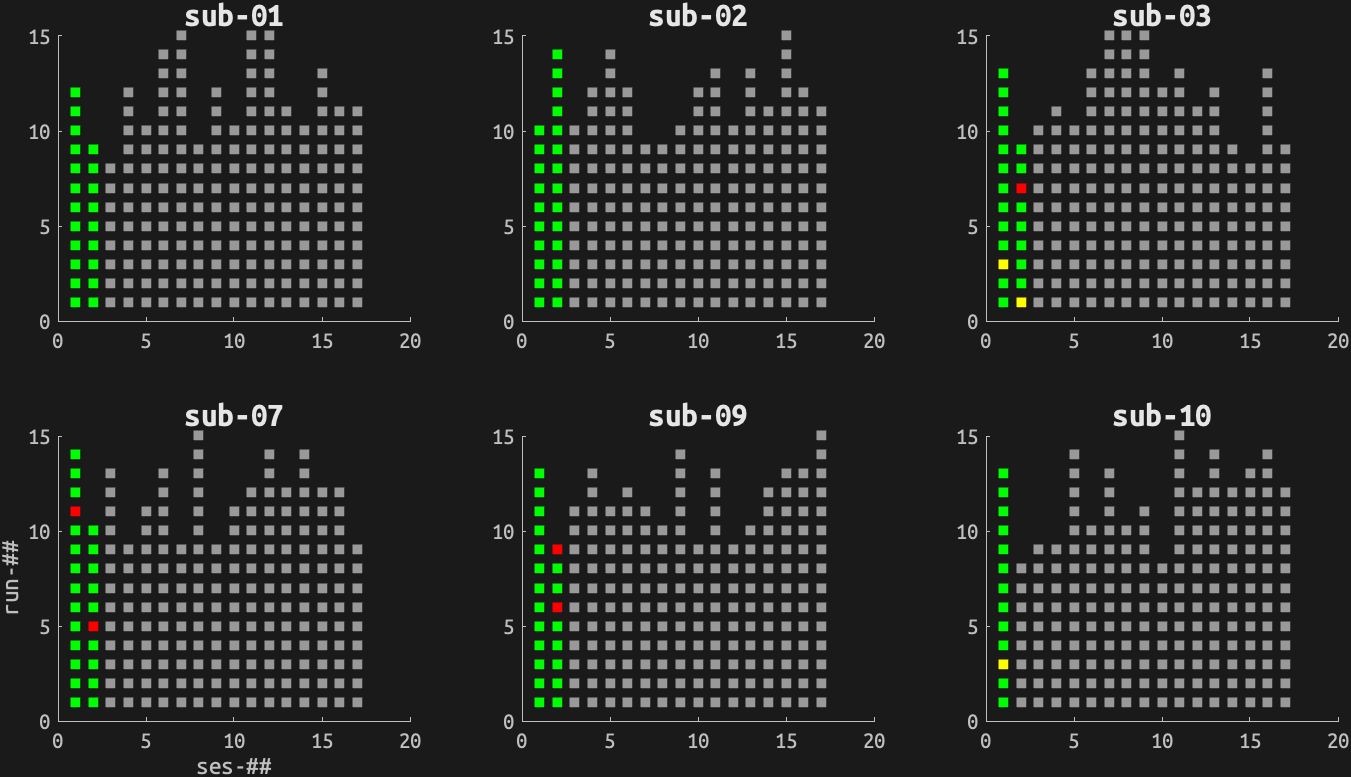
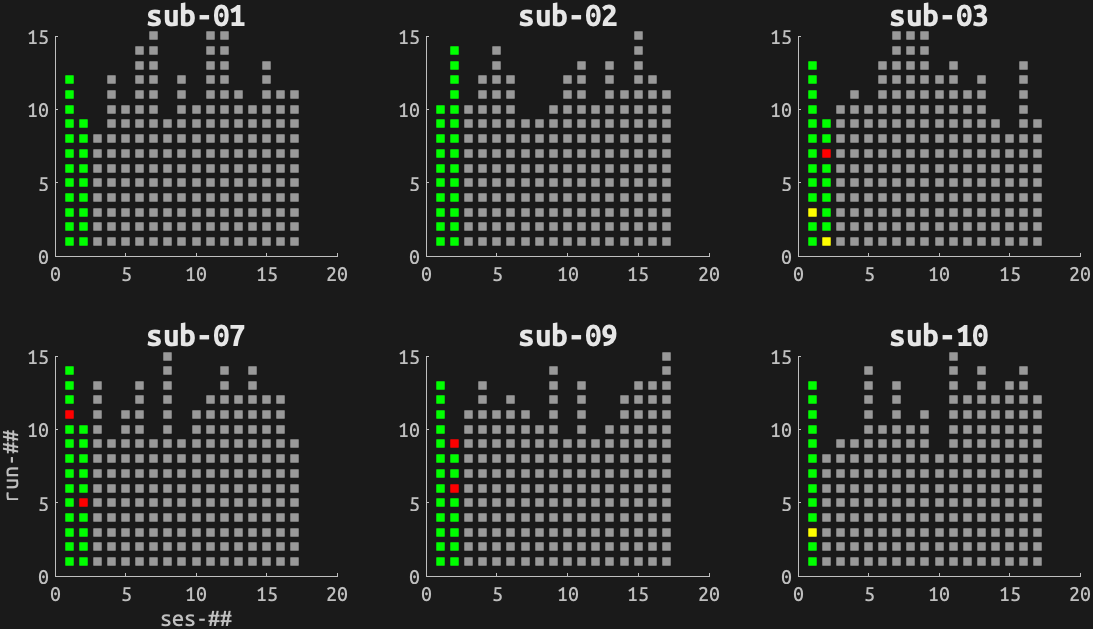
.

diff --git a/index.md b/index.md
@@ -3,9 +3,10 @@ title: Current progress
 layout: home
 ---
 
-Updated: 22-Dec-2025 12:32:26
+Updated: 22-Dec-2025 12:43:11
+Here the current progress of the EXG data acquisition is shared.
 ## Current recordings
 
 ![recordings](figs/run-prog.png)
-<br><small>Each box represents a run. RED=With major issues like a wrong song was played and so on. Needs to be rerun. YELLOW=With minor issues like the StimTrak was turned off. No need to rerun. GREEN=All good (but possibly with "normal" artefacts.</small>
+<br><small>Each box represents a run. *GREY*=Yet to be done. *RED*=With major issues like a wrong song was played and so on. Needs to be rerun. *YELLOW*=With minor issues like the StimTrak was turned off. No need to rerun. *GREEN*=All good (but possibly with "normal" artefacts.</small>
 
